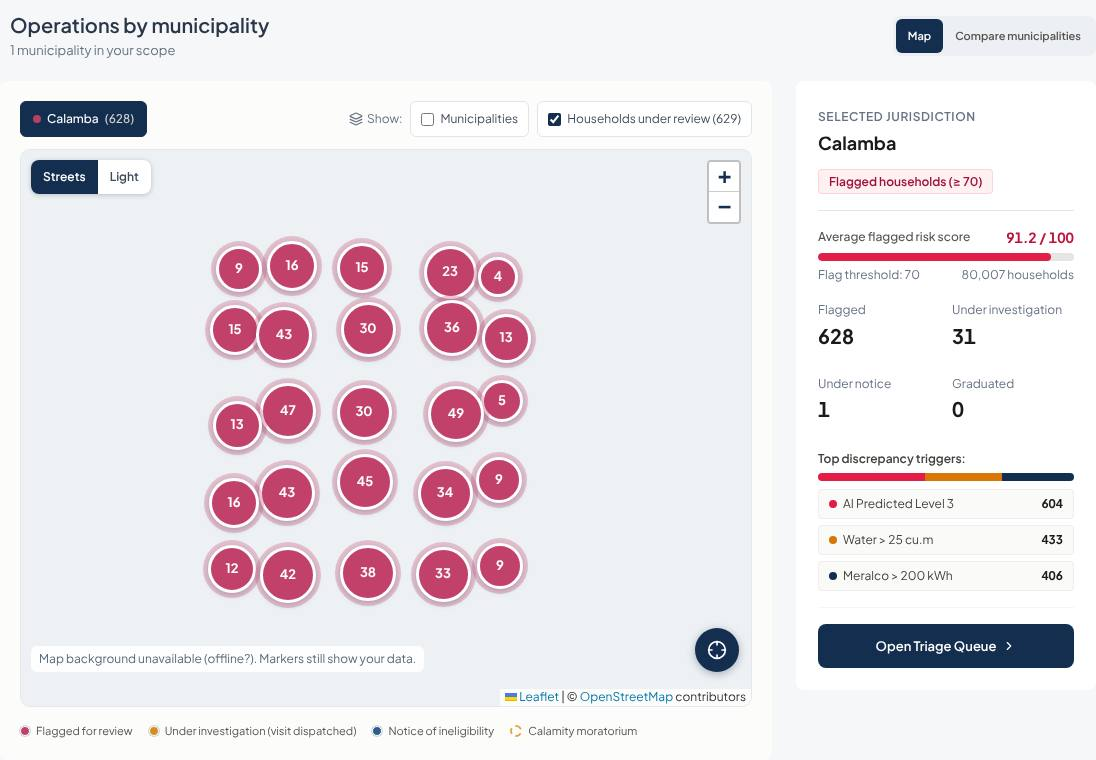
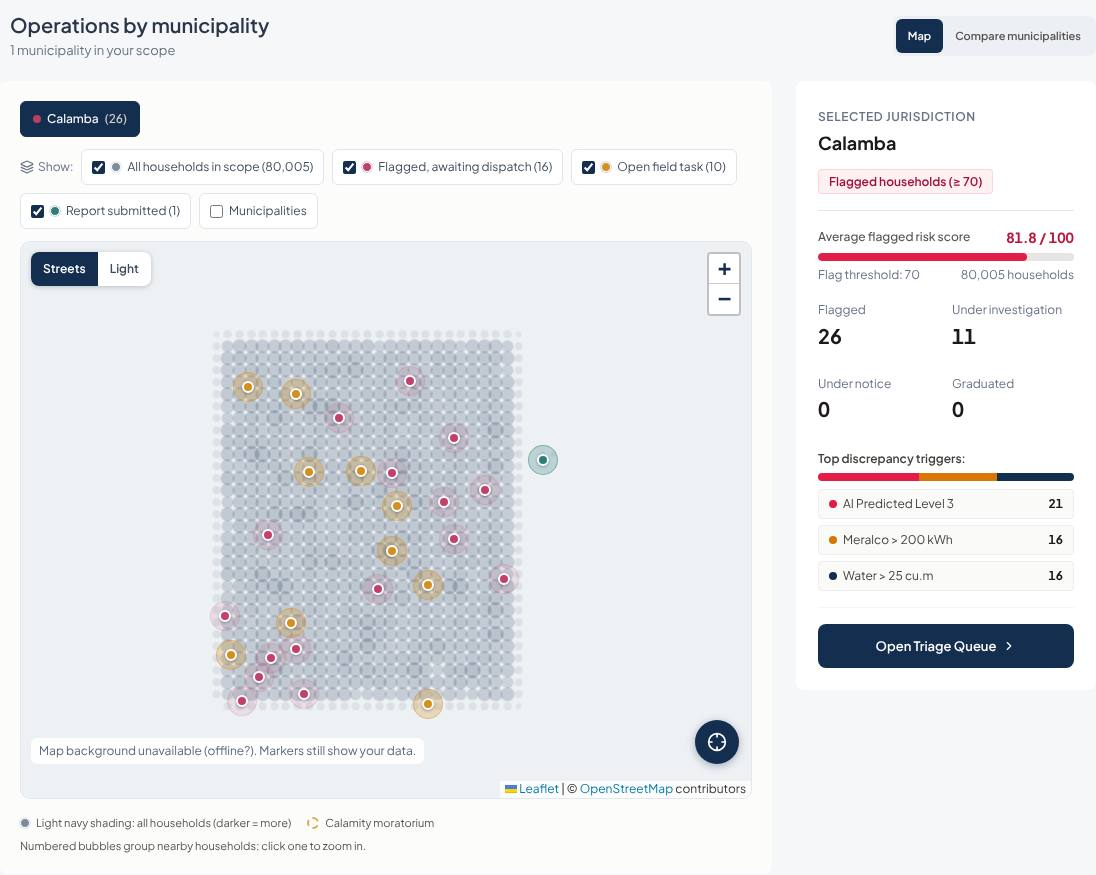
Map: all households in scope (density) and field-task stages
- GET /insights/map (admin-map-density.json): household counts per 0.002-degree
  cell for the caller's jurisdiction, no identities; same guards as the other
  dashboard routes. Test written first (insights.test.js 7/7; server 159 pass).
- Map: 'All households in scope' density layer under the review markers;
  households under investigation split into open field task / report submitted
  using the scoped task list; every layer can be toggled, with counts.
- Docs: DECISION-010 addendum, demo scenarios (incl. a 3-second small variant).
test_ui_live_data.js: 121/121 on the demo data, 117/117 on the small set.

Claude-Session: https://claude.ai/code/session_0149PXwEHQoFyZipVuDzqCCL

diff --git a/client/src/components/dashboard/MinimalPhMap.tsx b/client/src/components/dashboard/MinimalPhMap.tsx
@@ -23,14 +23,18 @@ export interface MapHousehold {
   municipality: string;
   score: number;
   status: string;
+  task?: string; // latest field-task status for this household, when there is one
   coordinates: [number, number]; // [longitude, latitude]
 }
+
+export interface DensityCell { center: [number, number]; households: number; active_compliant: number; under_review: number }
 
 interface MinimalPhMapProps {
   pins: ClusterPin[];
   selectedCluster: string | null;
   onSelectCluster: (municipality: string) => void;
   households?: MapHousehold[];
+  density?: DensityCell[];
   onOpenHousehold?: (householdId: string) => void;
 }
 
@@ -39,12 +43,18 @@ const COLORS = { RED: '#b83f62', AMBER: '#c98a1c', GREEN: '#2f7d5b', NAVY: '#132
 const LAGUNA_CENTER: LatLngExpression = [14.22, 121.17];
 const toLatLng = ([lon, lat]: [number, number]): [number, number] => [lat, lon];
 const valid = (c?: [number, number]) => Array.isArray(c) && c.length === 2 && c.every(Number.isFinite) && !(c[0] === 0 && c[1] === 0);
-// Household dots are coloured by review stage, in the system palette.
+// Household dots are coloured by stage, in the system palette. A household under investigation
+// is split by its field task: visit still open, or report already submitted.
 const STAGES: Record<string, { color: string; label: string }> = {
-  FLAGGED_FOR_REVIEW: { color: '#c2416b', label: 'Flagged for review' },
-  UNDER_INVESTIGATION: { color: '#d4901f', label: 'Under investigation (visit dispatched)' },
+  FLAGGED_FOR_REVIEW: { color: '#c2416b', label: 'Flagged, awaiting dispatch' },
+  OPEN_FIELD_TASK: { color: '#d4901f', label: 'Open field task' },
+  REPORT_SUBMITTED: { color: '#2f7d7a', label: 'Report submitted' },
   NOTICE_OF_INELIGIBILITY: { color: '#2f5d8a', label: 'Notice of ineligibility' },
 };
+const STAGE_ORDER = Object.keys(STAGES);
+const stageKey = (h: MapHousehold) => h.status !== 'UNDER_INVESTIGATION' ? h.status
+  : h.task === 'SUBMITTED' ? 'REPORT_SUBMITTED' : 'OPEN_FIELD_TASK';
+const DENSITY_COLOR = '#132e4f';
 // Basemaps: "Streets" is the familiar road map (yellow/orange roads, green parks, blue water, labels);
 // "Light" is a muted style. Both are free with the attribution shown on the map.
 const BASEMAPS = {
@@ -69,7 +79,7 @@ function householdIcon(color: string, pulse: boolean): L.DivIcon {
   return iconCache.get(key)!;
 }
 
-const stageOf = (status: string) => STAGES[status] ?? { color: '#6b7789', label: status.replace(/_/g, ' ').toLowerCase() };
+const stageOf = (key: string) => STAGES[key] ?? { color: '#6b7789', label: key.replace(/_/g, ' ').toLowerCase() };
 
 // Keeps the view on the data: fits everything on load and flies to a selected municipality.
 const ViewController: React.FC<{ bounds: LatLngBoundsExpression | null; focus: [number, number] | null; resetKey: number }> = ({ bounds, focus, resetKey }) => {
@@ -90,8 +100,6 @@ const ViewController: React.FC<{ bounds: LatLngBoundsExpression | null; focus: [
   return null;
 };
 
-// Stage order used for the cluster tooltip breakdown.
-const STAGE_RANK = ['NOTICE_OF_INELIGIBILITY', 'FLAGGED_FOR_REVIEW', 'UNDER_INVESTIGATION'];
 const CLUSTER_CELL_PX = 80;
 const CLUSTER_UNTIL_ZOOM = 17;
 
@@ -111,7 +119,7 @@ const HouseholdPopup: React.FC<{ h: MapHousehold; onOpenHousehold?: (id: string)
       <span>{h.household_id}</span>
       <span>{h.barangay}, {h.municipality}</span>
       <span>Risk score <b>{h.score.toFixed(1)}</b> / 100</span>
-      <span className="map-popup-stage"><i style={{ background: stageOf(h.status).color }} />{stageOf(h.status).label}</span>
+      <span className="map-popup-stage"><i style={{ background: stageOf(stageKey(h)).color }} />{stageOf(stageKey(h)).label}</span>
       {onOpenHousehold && <button type="button" onClick={() => onOpenHousehold(h.household_id)}>Open Triage Queue</button>}
     </div>
   </Popup>
@@ -138,8 +146,8 @@ const HouseholdLayer: React.FC<{ households: MapHousehold[]; onOpenHousehold?: (
     if (members.length === 1) {
       const h = members[0];
       return (
-        <Marker key={key} position={toLatLng(h.coordinates)} title={`${h.name}, ${stageOf(h.status).label}`}
-          icon={householdIcon(stageOf(h.status).color, h.status === 'FLAGGED_FOR_REVIEW')}>
+        <Marker key={key} position={toLatLng(h.coordinates)} title={`${h.name}, ${stageOf(stageKey(h)).label}`}
+          icon={householdIcon(stageOf(stageKey(h)).color, stageKey(h) === 'FLAGGED_FOR_REVIEW')}>
           <HouseholdPopup h={h} onOpenHousehold={onOpenHousehold} />
           <Tooltip direction="top">{h.name} · score {h.score.toFixed(0)}</Tooltip>
         </Marker>
@@ -149,9 +157,9 @@ const HouseholdLayer: React.FC<{ households: MapHousehold[]; onOpenHousehold?: (
     const lng = members.reduce((sum, h) => sum + h.coordinates[0], 0) / members.length;
     // Bubble colour = the stage most households inside are in; the tooltip gives the exact breakdown.
     const tally = new Map<string, number>();
-    for (const h of members) tally.set(h.status, (tally.get(h.status) ?? 0) + 1);
+    for (const h of members) tally.set(stageKey(h), (tally.get(stageKey(h)) ?? 0) + 1);
     const majority = [...tally.entries()].sort((a, b) => b[1] - a[1])[0][0];
-    const counts = STAGE_RANK.map(stage => [stageOf(stage).label, members.filter(h => h.status === stage).length] as const).filter(([, n]) => n);
+    const counts = STAGE_ORDER.map(stage => [stageOf(stage).label, tally.get(stage) ?? 0] as const).filter(([, n]) => n);
     return (
       <Marker key={key} position={[lat, lng]} title={`${members.length} households. Click to zoom in.`}
         icon={clusterIcon(members.length, stageOf(majority).color)}
@@ -162,19 +170,40 @@ const HouseholdLayer: React.FC<{ households: MapHousehold[]; onOpenHousehold?: (
   })}</>;
 };
 
-export const MinimalPhMap: React.FC<MinimalPhMapProps> = ({ pins, selectedCluster, onSelectCluster, households = [], onOpenHousehold }) => {
-  const [showMunicipalities, setShowMunicipalities] = useState(households.length === 0);
-  const [showHouseholds, setShowHouseholds] = useState(true);
+// Every household in scope, as counts per ~220 m cell (GET /insights/map): drawn on a canvas so
+// thousands of cells stay fast. Darker and larger = more households.
+const DensityLayer: React.FC<{ cells: DensityCell[] }> = ({ cells }) => {
+  const max = Math.max(1, ...cells.map(c => c.households));
+  return <>{cells.map(c => (
+    <CircleMarker key={`${c.center[0]}:${c.center[1]}`} center={toLatLng(c.center)} radius={2 + 6 * Math.sqrt(c.households / max)}
+      pathOptions={{ stroke: false, fillColor: DENSITY_COLOR, fillOpacity: 0.06 + 0.2 * (c.households / max) }}>
+      <Tooltip direction="top">{c.households.toLocaleString()} household{c.households === 1 ? '' : 's'} · {c.active_compliant.toLocaleString()} compliant · {c.under_review} under review</Tooltip>
+    </CircleMarker>
+  ))}</>;
+};
+
+export const MinimalPhMap: React.FC<MinimalPhMapProps> = ({ pins, selectedCluster, onSelectCluster, households = [], density = [], onOpenHousehold }) => {
+  const [showMunicipalities, setShowMunicipalities] = useState(households.length === 0 && density.length === 0);
+  const [showDensity, setShowDensity] = useState(true);
+  const [hiddenStages, setHiddenStages] = useState<Set<string>>(new Set());
+  const toggleStage = (key: string) => setHiddenStages(current => {
+    const next = new Set(current); if (next.has(key)) next.delete(key); else next.add(key); return next;
+  });
   const [tilesFailed, setTilesFailed] = useState(false);
   const [basemap, setBasemap] = useState<BasemapKey>('streets');
   const [resetKey, setResetKey] = useState(0);
   const mappedHouseholds = households.filter(h => valid(h.coordinates));
+  const visibleHouseholds = mappedHouseholds.filter(h => !hiddenStages.has(stageKey(h)));
+  const stageCounts = new Map<string, number>();
+  for (const h of mappedHouseholds) stageCounts.set(stageKey(h), (stageCounts.get(stageKey(h)) ?? 0) + 1);
+  const densityTotal = density.reduce((sum, c) => sum + c.households, 0);
   const bounds = useMemo<LatLngBoundsExpression | null>(() => {
-    const points = [...pins.filter(p => valid(p.coordinates)).map(p => toLatLng(p.coordinates)), ...mappedHouseholds.map(h => toLatLng(h.coordinates))];
+    const points = [...pins.filter(p => valid(p.coordinates)).map(p => toLatLng(p.coordinates)), ...mappedHouseholds.map(h => toLatLng(h.coordinates)),
+      ...density.map(c => toLatLng(c.center))];
     if (!points.length) return null;
     if (points.length === 1) { const [lat, lng] = points[0]; return [[lat - 0.03, lng - 0.03], [lat + 0.03, lng + 0.03]]; }
     return points;
-  }, [JSON.stringify(pins.map(p => p.coordinates)), JSON.stringify(mappedHouseholds.map(h => h.coordinates))]);
+  }, [JSON.stringify(pins.map(p => p.coordinates)), JSON.stringify(mappedHouseholds.map(h => h.coordinates)), density.length]);
   const selected = pins.find(p => p.municipality === selectedCluster);
   const focus = useMemo(() => selected && valid(selected.coordinates) ? toLatLng(selected.coordinates) : null,
     [selected?.municipality]);
@@ -197,15 +226,20 @@ export const MinimalPhMap: React.FC<MinimalPhMapProps> = ({ pins, selectedCluste
             );
           })}
         </div>
-        <div className="flex flex-wrap items-center gap-2 text-[12px]">
-          <span className="flex items-center gap-1 text-stone-500"><Layers className="w-3.5 h-3.5" aria-hidden="true" />Show:</span>
-          <label className="map-toggle"><input type="checkbox" checked={showMunicipalities} onChange={e => setShowMunicipalities(e.target.checked)} />Municipalities</label>
-          <label className="map-toggle"><input type="checkbox" checked={showHouseholds} onChange={e => setShowHouseholds(e.target.checked)} />Households under review ({mappedHouseholds.length.toLocaleString()})</label>
-        </div>
+      </div>
+      <div className="map-layer-bar" role="group" aria-label="Map layers">
+        <span className="flex items-center gap-1 text-stone-500"><Layers className="w-3.5 h-3.5" aria-hidden="true" />Show:</span>
+        {density.length > 0 && <label className="map-toggle"><input type="checkbox" checked={showDensity} onChange={e => setShowDensity(e.target.checked)} />
+          <span className="map-dot" style={{ background: DENSITY_COLOR, opacity: 0.55 }} />All households in scope ({densityTotal.toLocaleString()})</label>}
+        {STAGE_ORDER.filter(key => stageCounts.get(key)).map(key => (
+          <label key={key} className="map-toggle"><input type="checkbox" checked={!hiddenStages.has(key)} onChange={() => toggleStage(key)} />
+            <span className="map-dot" style={{ background: STAGES[key].color }} />{STAGES[key].label} ({(stageCounts.get(key) ?? 0).toLocaleString()})</label>
+        ))}
+        <label className="map-toggle"><input type="checkbox" checked={showMunicipalities} onChange={e => setShowMunicipalities(e.target.checked)} />Municipalities</label>
       </div>
 
-      <div className="live-map-canvas" role="region" aria-label="Interactive map of municipalities and flagged households. Use the municipality buttons above for keyboard access.">
-        <MapContainer center={LAGUNA_CENTER} zoom={13} scrollWheelZoom={false} zoomControl={false} className="h-full w-full" attributionControl>
+      <div className="live-map-canvas" role="region" aria-label="Interactive map of all households, flagged households and field tasks. Use the buttons above for keyboard access.">
+        <MapContainer center={LAGUNA_CENTER} zoom={13} scrollWheelZoom={false} zoomControl={false} preferCanvas className="h-full w-full" attributionControl>
           <ZoomControl position="topright" />
           <TileLayer key={basemap}
             url={BASEMAPS[basemap].url}
@@ -215,6 +249,7 @@ export const MinimalPhMap: React.FC<MinimalPhMapProps> = ({ pins, selectedCluste
             eventHandlers={{ tileerror: () => setTilesFailed(true), tileload: () => setTilesFailed(false) }}
           />
           <ViewController bounds={bounds} focus={focus} resetKey={resetKey} />
+          {showDensity && density.length > 0 && <DensityLayer cells={density} />}
           {showMunicipalities && pins.filter(p => valid(p.coordinates)).map(pin => {
             const isSelected = selectedCluster === pin.municipality;
             const radius = 14 + 16 * Math.sqrt(pin.flaggedCount / maxFlagged);
@@ -230,7 +265,7 @@ export const MinimalPhMap: React.FC<MinimalPhMapProps> = ({ pins, selectedCluste
               </React.Fragment>
             );
           })}
-          {showHouseholds && <HouseholdLayer households={mappedHouseholds} onOpenHousehold={onOpenHousehold} />}
+          <HouseholdLayer households={visibleHouseholds} onOpenHousehold={onOpenHousehold} />
         </MapContainer>
         <div className="map-basemap-switch" role="group" aria-label="Map style">
           {(Object.keys(BASEMAPS) as BasemapKey[]).map(key => (
@@ -244,10 +279,9 @@ export const MinimalPhMap: React.FC<MinimalPhMapProps> = ({ pins, selectedCluste
       </div>
 
       <div className="flex flex-wrap items-center gap-x-4 gap-y-1.5 text-[11px] text-stone-600 pt-1">
-        {Object.values(STAGES).map(stage => (
-          <span key={stage.label} className="flex items-center gap-1.5"><span className="map-dot" style={{ background: stage.color }} />{stage.label}</span>
-        ))}
+        {density.length > 0 && <span className="flex items-center gap-1.5"><span className="map-dot" style={{ background: DENSITY_COLOR, opacity: 0.55 }} />Light navy shading: all households (darker = more)</span>}
         <span className="flex items-center gap-1.5"><span className="w-3 h-3 rounded-full border-2 border-dashed" style={{ borderColor: COLORS.HALO }} />Calamity moratorium</span>
+        <span className="flex items-center gap-1.5">Numbered bubbles group nearby households; click one to zoom in.</span>
         {showMunicipalities && <span className="flex items-center gap-1.5"><MapPin className="w-3 h-3" aria-hidden="true" />Circle size = flagged households</span>}
       </div>
     </div>

diff --git a/client/src/components/screens/Screen2Dashboard.tsx b/client/src/components/screens/Screen2Dashboard.tsx
@@ -1,7 +1,7 @@
 import React, { useEffect, useMemo, useState } from 'react';
 import type { ScreenId } from '../../types/navigation';
 import type { BeneficiaryTriageItem } from '../../types/contracts';
-import { apiErrorMessage, fetchInsightsOverview, fetchTriagePage, InsightsOverview, type TriageSummary } from '../../services/api';
+import { apiErrorMessage, fetchAdminTasks, fetchInsightsOverview, fetchMapDensity, fetchTriagePage, InsightsOverview, type MapDensity, type TriageSummary } from '../../services/api';
 import { displayDate } from '../../utils/displayDate';
 import { 
   Users, 
@@ -42,6 +42,8 @@ export const Screen2Dashboard: React.FC<Screen2DashboardProps> = ({
   // Live aggregates for the caller's jurisdiction (GET /insights/overview, DECISION-010).
   const [overview, setOverview] = useState<InsightsOverview | null>(null);
   const [reviewHouseholds, setReviewHouseholds] = useState<BeneficiaryTriageItem[] | null>(null);
+  const [density, setDensity] = useState<MapDensity | null>(null);
+  const [taskByHousehold, setTaskByHousehold] = useState<Map<string, string>>(new Map());
   const [overviewError, setOverviewError] = useState('');
   useEffect(() => {
     const controller = new AbortController();
@@ -57,6 +59,16 @@ export const Screen2Dashboard: React.FC<Screen2DashboardProps> = ({
     Promise.all(['FLAGGED_FOR_REVIEW', 'UNDER_INVESTIGATION', 'NOTICE_OF_INELIGIBILITY'].map(allPages))
       .then(stages => setReviewHouseholds(stages.flat()))
       .catch(() => { /* the map falls back to the queue page already loaded */ });
+    // All households in scope as map-cell counts, and each household's latest field-task status.
+    fetchMapDensity(controller.signal).then(setDensity).catch(() => { /* the layer is simply not shown */ });
+    (async () => {
+      const first = await fetchAdminTasks({ page: 1, limit: 100 }, controller.signal);
+      const rest = await Promise.all(Array.from({ length: Math.max(0, Math.min(first.pagination.total_pages, 10) - 1) },
+        (_, i) => fetchAdminTasks({ page: i + 2, limit: 100 }, controller.signal)));
+      const latest = new Map<string, string>();   // tasks come newest first
+      for (const task of [first, ...rest].flatMap(page => page.items)) if (!latest.has(task.household_id)) latest.set(task.household_id, task.task_status);
+      setTaskByHousehold(latest);
+    })().catch(() => { /* without tasks, dispatched households show as open field tasks */ });
     return () => controller.abort();
   }, []);
 
@@ -97,7 +109,7 @@ export const Screen2Dashboard: React.FC<Screen2DashboardProps> = ({
   const zones = overview?.calamity.active_zones ?? [];
   const mapHouseholds: MapHousehold[] = (reviewHouseholds ?? triageItems).filter(item => Array.isArray(item.address.coordinates)).map(item => ({
     household_id: item.household_id, name: item.head_of_household.full_name, barangay: item.address.barangay,
-    municipality: item.address.municipality, score: item.composite_risk_score, status: item.status,
+    municipality: item.address.municipality, score: item.composite_risk_score, status: item.status, task: taskByHousehold.get(item.household_id),
     coordinates: item.address.coordinates as [number, number],
   }));
 
@@ -521,7 +533,7 @@ export const Screen2Dashboard: React.FC<Screen2DashboardProps> = ({
             {geoViewMode === 'map' ? (
               <React.Suspense fallback={<p className="p-6 text-xs text-stone-500" role="status">Loading map…</p>}>
                 <MinimalPhMap pins={pins} selectedCluster={activePin.municipality} onSelectCluster={setSelectedCluster}
-                  households={mapHouseholds} onOpenHousehold={() => onNavigateToScreen('triage')} />
+                  households={mapHouseholds} density={density?.cells ?? []} onOpenHousehold={() => onNavigateToScreen('triage')} />
               </React.Suspense>
             ) : (
               <div className="p-4 sm:p-6 space-y-4 bg-stone-50/40 min-h-[380px]">

diff --git a/data-pipeline/scripts/test_ui_live_data.js b/data-pipeline/scripts/test_ui_live_data.js
@@ -9,6 +9,7 @@
  *   GET /api/v1/users/caseworkers   (admin-caseworker-directory.json)
  *   GET /api/v1/audit/blocks        (audit-block-list.json)
  *   GET /api/v1/system/policy       (admin-policy.json)
+ *   GET /api/v1/insights/map        (admin-map-density.json)
  *
  * Prerequisites:
  * 1. Stack running; reset_demo.sh, then add_dispatch_test.js (one flagged
@@ -125,6 +126,18 @@ async function api(t) {
   check('before=0 -> 400', (await call('GET', '/audit/blocks?before=0', { token: t.auditor.token })).status === 400);
   console.log('');
 
+  console.log('[3b] GET /insights/map...');
+  const m = await call('GET', '/insights/map', { token: t.director.token });
+  check('200; keys match admin-map-density.json', m.status === 200 && keys(m.data) === keys(contract('admin-map-density')) &&
+    keys(m.data.cells[0]) === keys(contract('admin-map-density').cells[0]), m.data && Object.keys(m.data));
+  const mapOverview = (await call('GET', '/insights/overview', { token: t.director.token })).data;
+  check('cell counts add up to every household in scope', m.data.total_households === mapOverview.households.total &&
+    m.data.cells.reduce((sum, c) => sum + c.households, 0) === mapOverview.households.total, [m.data.total_households, mapOverview.households.total]);
+  check('no household identities in the map cells', !/household_id|national_id|full_name/.test(JSON.stringify(m.data)));
+  check('worker 403, query 400', (await call('GET', '/insights/map', { token: t.worker.token })).status === 403 &&
+    (await call('GET', '/insights/map?x=1', { token: t.director.token })).status === 400);
+  console.log('');
+
   console.log('[4] GET /system/policy...');
   const p = await call('GET', '/system/policy', { token: t.director.token });
   check('200; keys match admin-policy.json', p.status === 200 && keys(p.data) === keys(contract('admin-policy')), p.data);
@@ -193,6 +206,10 @@ async function browserChecks(t, facts) {
         return { singles, clusters: canvas.querySelectorAll('.hh-cluster').length, total: singles + clustered };
       });
       await page.locator('.live-map-canvas :is(.hh-marker, .hh-cluster-marker)').first().waitFor({ timeout: 15000 });
+      const total = (await call('GET', '/insights/overview', { token: t.director.token })).data.households.total;
+      await page.locator('.map-layer-bar', { hasText: 'All households in scope' }).waitFor({ timeout: 15000 });
+      check(`${size} director map: 'All households in scope' layer shows ${total.toLocaleString('en-US')}`,
+        (await page.locator('.map-layer-bar').innerText()).includes(`All households in scope (${total.toLocaleString('en-US')})`));
       const shown = await mapTotal();
       check(`${size} director map: dots + cluster counts = households under review (${expectedDots})`, shown.total === expectedDots, shown);
       await page.locator('.map-basemap-switch button', { hasText: 'Light' }).click();

diff --git a/server/test/insights.test.js b/server/test/insights.test.js
@@ -140,6 +140,23 @@ test('UI live-data read routes: scope, roles, validation and contract shapes', {
     for (const q of ['limit=101', 'before=0', 'before=x']) assert.equal((await get('coa', 'audit/blocks?' + q)).status, 400, q);
   });
 
+  await t.test('GET /insights/map returns scoped household counts per cell, no identities', async () => {
+    const d = await get('director', 'insights/map');
+    assert.equal(d.status, 200); assert.equal(d.cache, 'no-store');
+    assert.deepEqual(keys(d.data), keys(contract('admin-map-density')));
+    assert.deepEqual(keys(d.data.cells[0]), keys(contract('admin-map-density').cells[0]));
+    assert.equal(d.data.total_households, 4, 'same scope as the overview');
+    assert.equal(d.data.cells.reduce((sum, c) => sum + c.households, 0), 4);
+    assert.equal(d.data.cells.reduce((sum, c) => sum + c.active_compliant, 0), 1);
+    assert.equal(d.data.cells.reduce((sum, c) => sum + c.under_review, 0), 3, 'flagged + investigation + notice');
+    assert.ok(d.data.cells.every(c => Math.abs(c.center[0] - 121.161) < 0.002 && Math.abs(c.center[1] - 14.211) < 0.002), 'cell centre near the points');
+    assert.equal(/H-[A-Z]|NID-|Ana/.test(JSON.stringify(d.data)), false, 'no household identities');
+    assert.equal((await get('coa', 'insights/map')).data.total_households, 6);
+    assert.equal((await get('worker', 'insights/map')).status, 403);
+    assert.equal((await get(null, 'insights/map')).status, 401);
+    assert.equal((await get('director', 'insights/map?precision=5')).status, 400);
+  });
+
   await t.test('GET /system/policy reports the enforced values', async () => {
     const d = await get('director', 'system/policy');
     assert.equal(d.status, 200);

diff --git a/server/src/services/insights.service.js b/server/src/services/insights.service.js
@@ -142,6 +142,27 @@ function createInsights({ beneficiaries = Beneficiary, tasks = VerificationTask,
       };
     },
 
+    // Map density (admin-map-density.json): counts per 0.002-degree cell, no identities.
+    async mapDensity(query, scope) {
+      parse(query, []);
+      ready();
+      const CELL = 0.002;
+      const REVIEW = ['FLAGGED_FOR_REVIEW', 'UNDER_INVESTIGATION', 'NOTICE_OF_INELIGIBILITY'];
+      const cells = await beneficiaries.aggregate([
+        { $match: { $and: [scope, { 'address.coordinates.coordinates.1': { $exists: true } }] } },
+        { $group: {
+          _id: { x: { $floor: { $divide: [{ $arrayElemAt: ['$address.coordinates.coordinates', 0] }, CELL] } },
+            y: { $floor: { $divide: [{ $arrayElemAt: ['$address.coordinates.coordinates', 1] }, CELL] } } },
+          households: { $sum: 1 },
+          active_compliant: { $sum: { $cond: [{ $eq: ['$program_status', 'ACTIVE_COMPLIANT'] }, 1, 0] } },
+          under_review: { $sum: { $cond: [{ $in: ['$program_status', REVIEW] }, 1, 0] } } } },
+        { $sort: { '_id.y': 1, '_id.x': 1 } }]);
+      return { generated_at: now().toISOString(), cell_size_deg: CELL,
+        total_households: cells.reduce((sum, c) => sum + c.households, 0),
+        cells: cells.map(c => ({ center: [round((c._id.x + 0.5) * CELL, 4), round((c._id.y + 0.5) * CELL, 4)],
+          households: c.households, active_compliant: c.active_compliant, under_review: c.under_review })) };
+    },
+
     async tasksList(query, scope) {
       parse(query, ['status', 'page', 'limit']);
       if (query.status && !Object.values(TASK_STATUSES).includes(query.status)) throw invalid();

diff --git a/client/src/services/api.ts b/client/src/services/api.ts
@@ -398,3 +398,13 @@ export async function fetchPolicy(signal?: AbortSignal): Promise<PolicySnapshot>
   if (!data?.risk_score) throw new Error('Policy response did not match the contract.');
   return data as PolicySnapshot;
 }
+
+export interface MapDensity { generated_at: string; cell_size_deg: number; total_households: number;
+  cells: { center: [number, number]; households: number; active_compliant: number; under_review: number }[] }
+
+// Household counts per map cell for the dashboard map (admin-map-density.json).
+export async function fetchMapDensity(signal?: AbortSignal): Promise<MapDensity> {
+  const { data } = await api.get('/insights/map', { signal });
+  if (!Array.isArray(data?.cells) || !Number.isSafeInteger(data?.total_households)) throw new Error('Map response did not match the contract.');
+  return data as MapDensity;
+}

diff --git a/server/src/routes/v1/index.js b/server/src/routes/v1/index.js
@@ -112,6 +112,9 @@ module.exports = function createRouter({ mockMode, production, authService = cre
   router.get('/insights/overview', authenticate,
     allowRoles(R.SUPER_ADMIN, R.REGIONAL_DIRECTOR, R.COA_AUDITOR), scopeJurisdiction,
     feed(req => insights.overview(req.query, req.jurisdictionFilter, req.user)));
+  router.get('/insights/map', authenticate,
+    allowRoles(R.SUPER_ADMIN, R.REGIONAL_DIRECTOR, R.COA_AUDITOR), scopeJurisdiction,
+    feed(req => insights.mapDensity(req.query, req.jurisdictionFilter)));
   router.get('/tasks', authenticate, allowRoles(R.SUPER_ADMIN, R.REGIONAL_DIRECTOR), scopeJurisdiction,
     feed(req => insights.tasksList(req.query, req.jurisdictionFilter)));
   router.get('/users/caseworkers', authenticate, allowRoles(R.SUPER_ADMIN, R.REGIONAL_DIRECTOR), scopeJurisdiction,

diff --git a/client/src/styles/workspace.css b/client/src/styles/workspace.css
@@ -407,3 +407,5 @@
 .hh-cluster { display: flex; width: var(--s); height: var(--s); align-items: center; justify-content: center; border: 3px solid #fff; border-radius: 50%; background: var(--c); color: #fff; font-size: 13px; font-weight: 700; box-shadow: 0 0 0 5px color-mix(in srgb, var(--c) 28%, transparent), 0 2px 6px rgb(19 46 79 / 30%); cursor: pointer; }
 .hh-cluster-marker:focus-visible { outline: none; }
 .hh-cluster-marker:focus-visible .hh-cluster { outline: 3px solid #132e4f; outline-offset: 3px; }
+.map-layer-bar { display: flex; flex-wrap: wrap; align-items: center; gap: 8px; font-size: 12px; }
+.map-layer-bar .map-toggle .map-dot { width: 10px; height: 10px; flex: 0 0 auto; }

diff --git a/docs/testing/MANUAL_TEST_SCENARIOS.md b/docs/testing/MANUAL_TEST_SCENARIOS.md
@@ -32,7 +32,8 @@ bash data-pipeline/scripts/load_demo_data.sh     # Docker Compose v1: COMPOSE=do
 ```
 - **Expected (Director):** 80,007 households; **627** flagged (score ≥ 70; average 91.2); **31** under investigation; **33** field tasks; 653 ledger blocks.
 - **Triggers:** AI Predicted Level 3 (603), Water > 25 cu.m (432), Meralco > 200 kWh (405), 4-wheel vehicle (168), postpaid telecom (149).
-- **Map:** 628 households under review, grouped into numbered bubbles. Click a bubble, or zoom in, to reach single households.
+- **Map:** every household in scope as light navy shading (the 'All households in scope (80,007)' layer). On top are 628 households under review, coloured flagged / open field task / report submitted / notice and grouped into numbered bubbles; click a bubble, or zoom in, to reach single households. Each layer can be switched off.
+- **Smaller variant:** `SAMPLE_PAGES=1 DISPATCH=10 node data-pipeline/scripts/populate_demo.js` on the bare baseline gives about 26 flagged, 11 under investigation and 12 tasks in about 3 seconds.
 - **Live demo:** Case A (`DEMO-4PS-GRAD-0001`) and the fixtures are left untouched, so S4, S7 and S8 can be performed live on this dataset.
 - The scenario numbers below (S2 and so on) are for the small set. On the demo dataset every flow still works, but the totals are the ones above.
 

diff --git a/docs/decisions/010-ui-live-data-read-contracts.md b/docs/decisions/010-ui-live-data-read-contracts.md
@@ -30,6 +30,7 @@ No existing route returned these aggregates, and the frozen contracts in `docs/c
 | `GET /tasks` | `admin-task-list.json` | SUPER_ADMIN, REGIONAL_DIRECTOR | tasks joined to their household, then `scopeJurisdiction` |
 | `GET /users/caseworkers` | `admin-caseworker-directory.json` | SUPER_ADMIN, REGIONAL_DIRECTOR | directors: same province and municipality, at least one shared barangay |
 | `GET /audit/blocks` | `audit-block-list.json` | COA_AUDITOR, SUPER_ADMIN | headers only; no `state_delta` |
+| `GET /insights/map` | `admin-map-density.json` | SUPER_ADMIN, REGIONAL_DIRECTOR, COA_AUDITOR | `scopeJurisdiction`; household counts per 0.002° cell, no identities (addendum 2026-10-14, for the map's "All households" layer) |
 | `GET /system/policy` | `admin-policy.json` | SUPER_ADMIN, REGIONAL_DIRECTOR, COA_AUDITOR | directors see only their municipality's calamity zones |
 
 * Unknown query parameters return 400 `INVALID_QUERY`.
